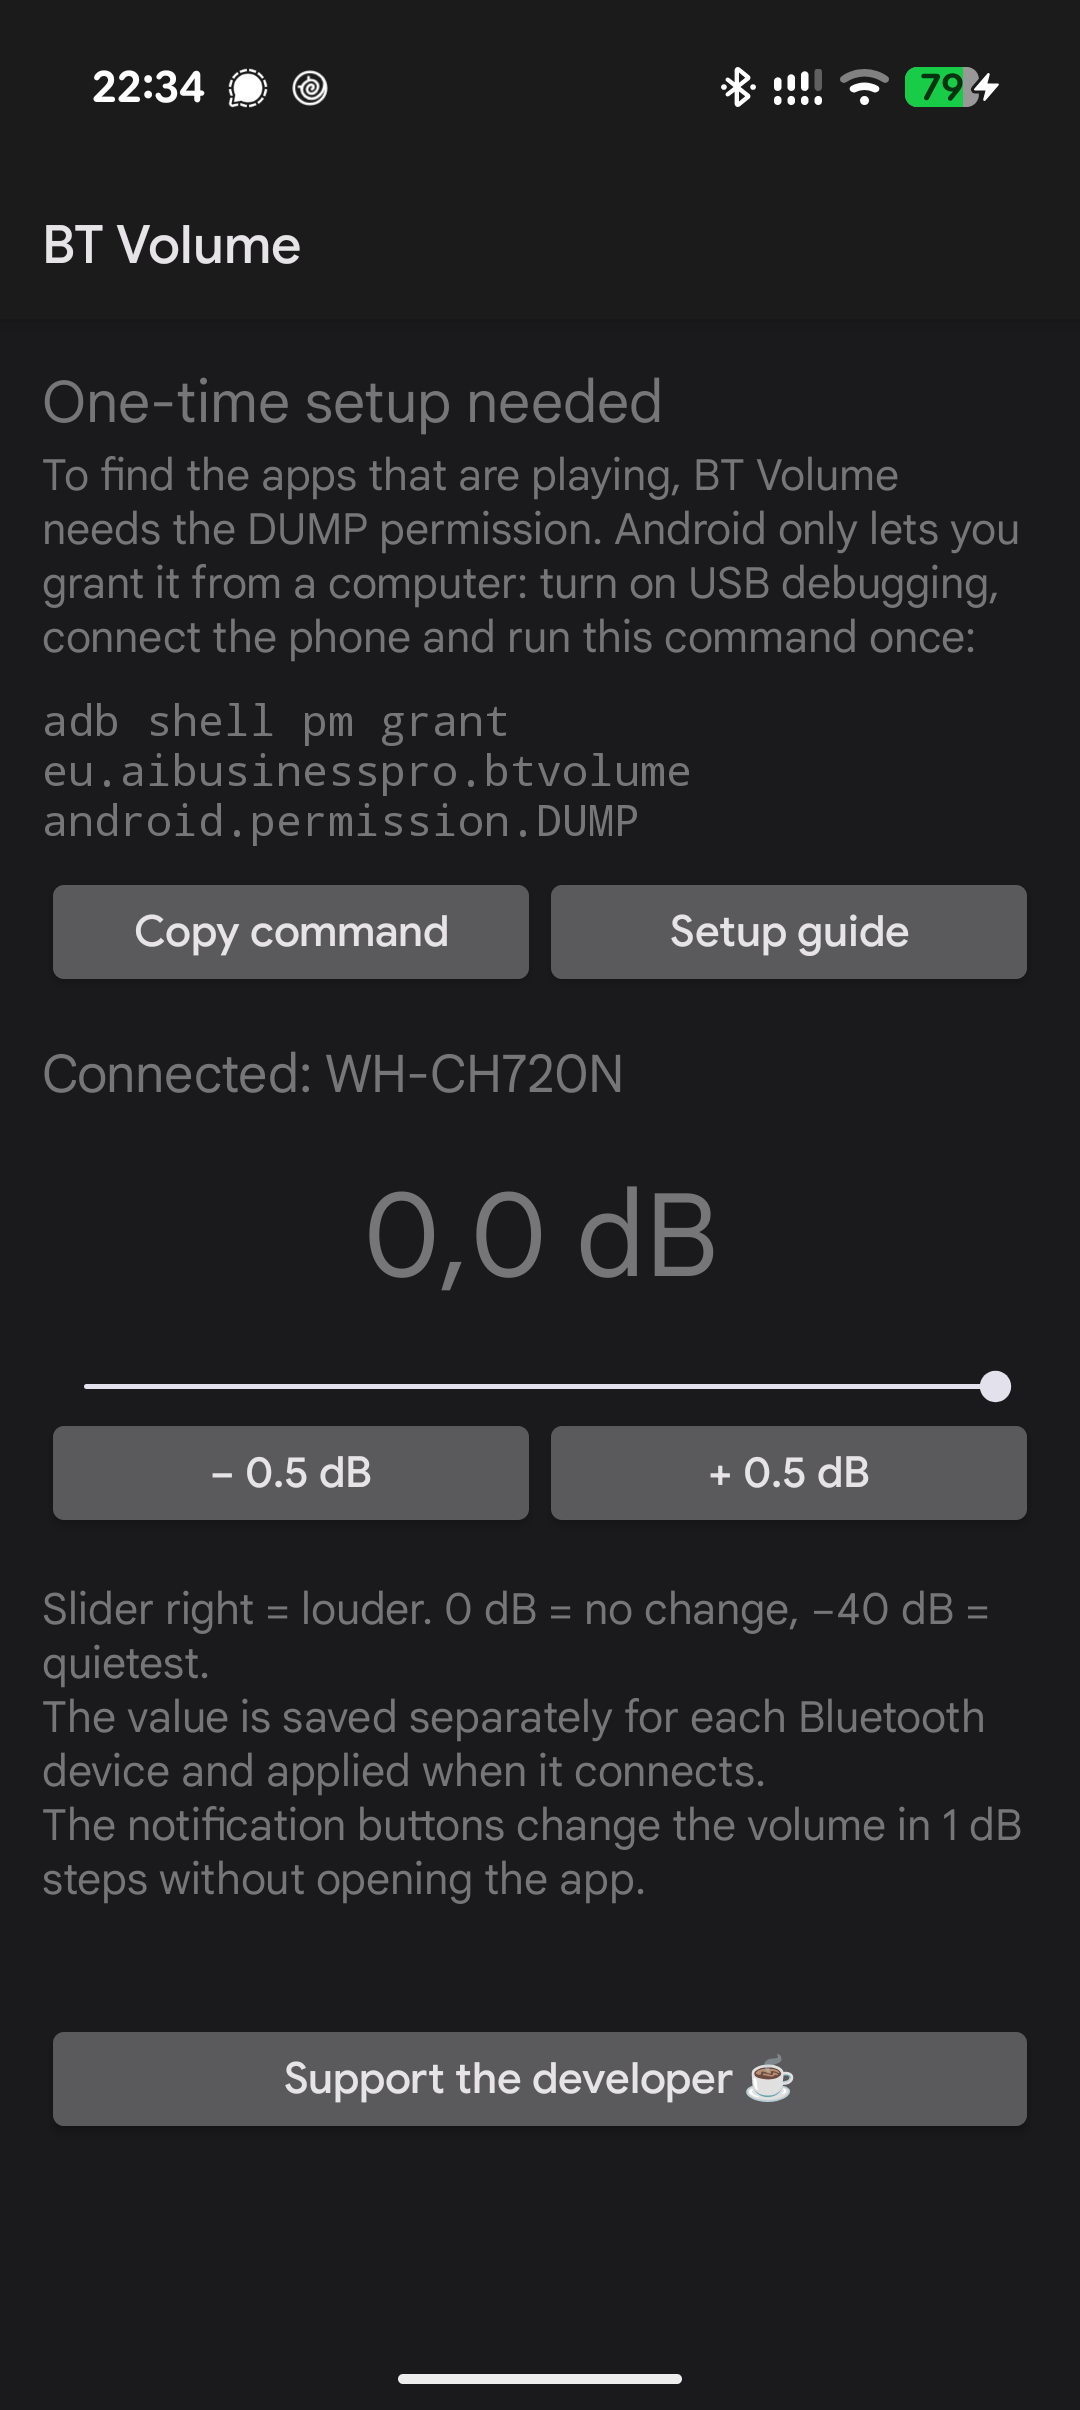
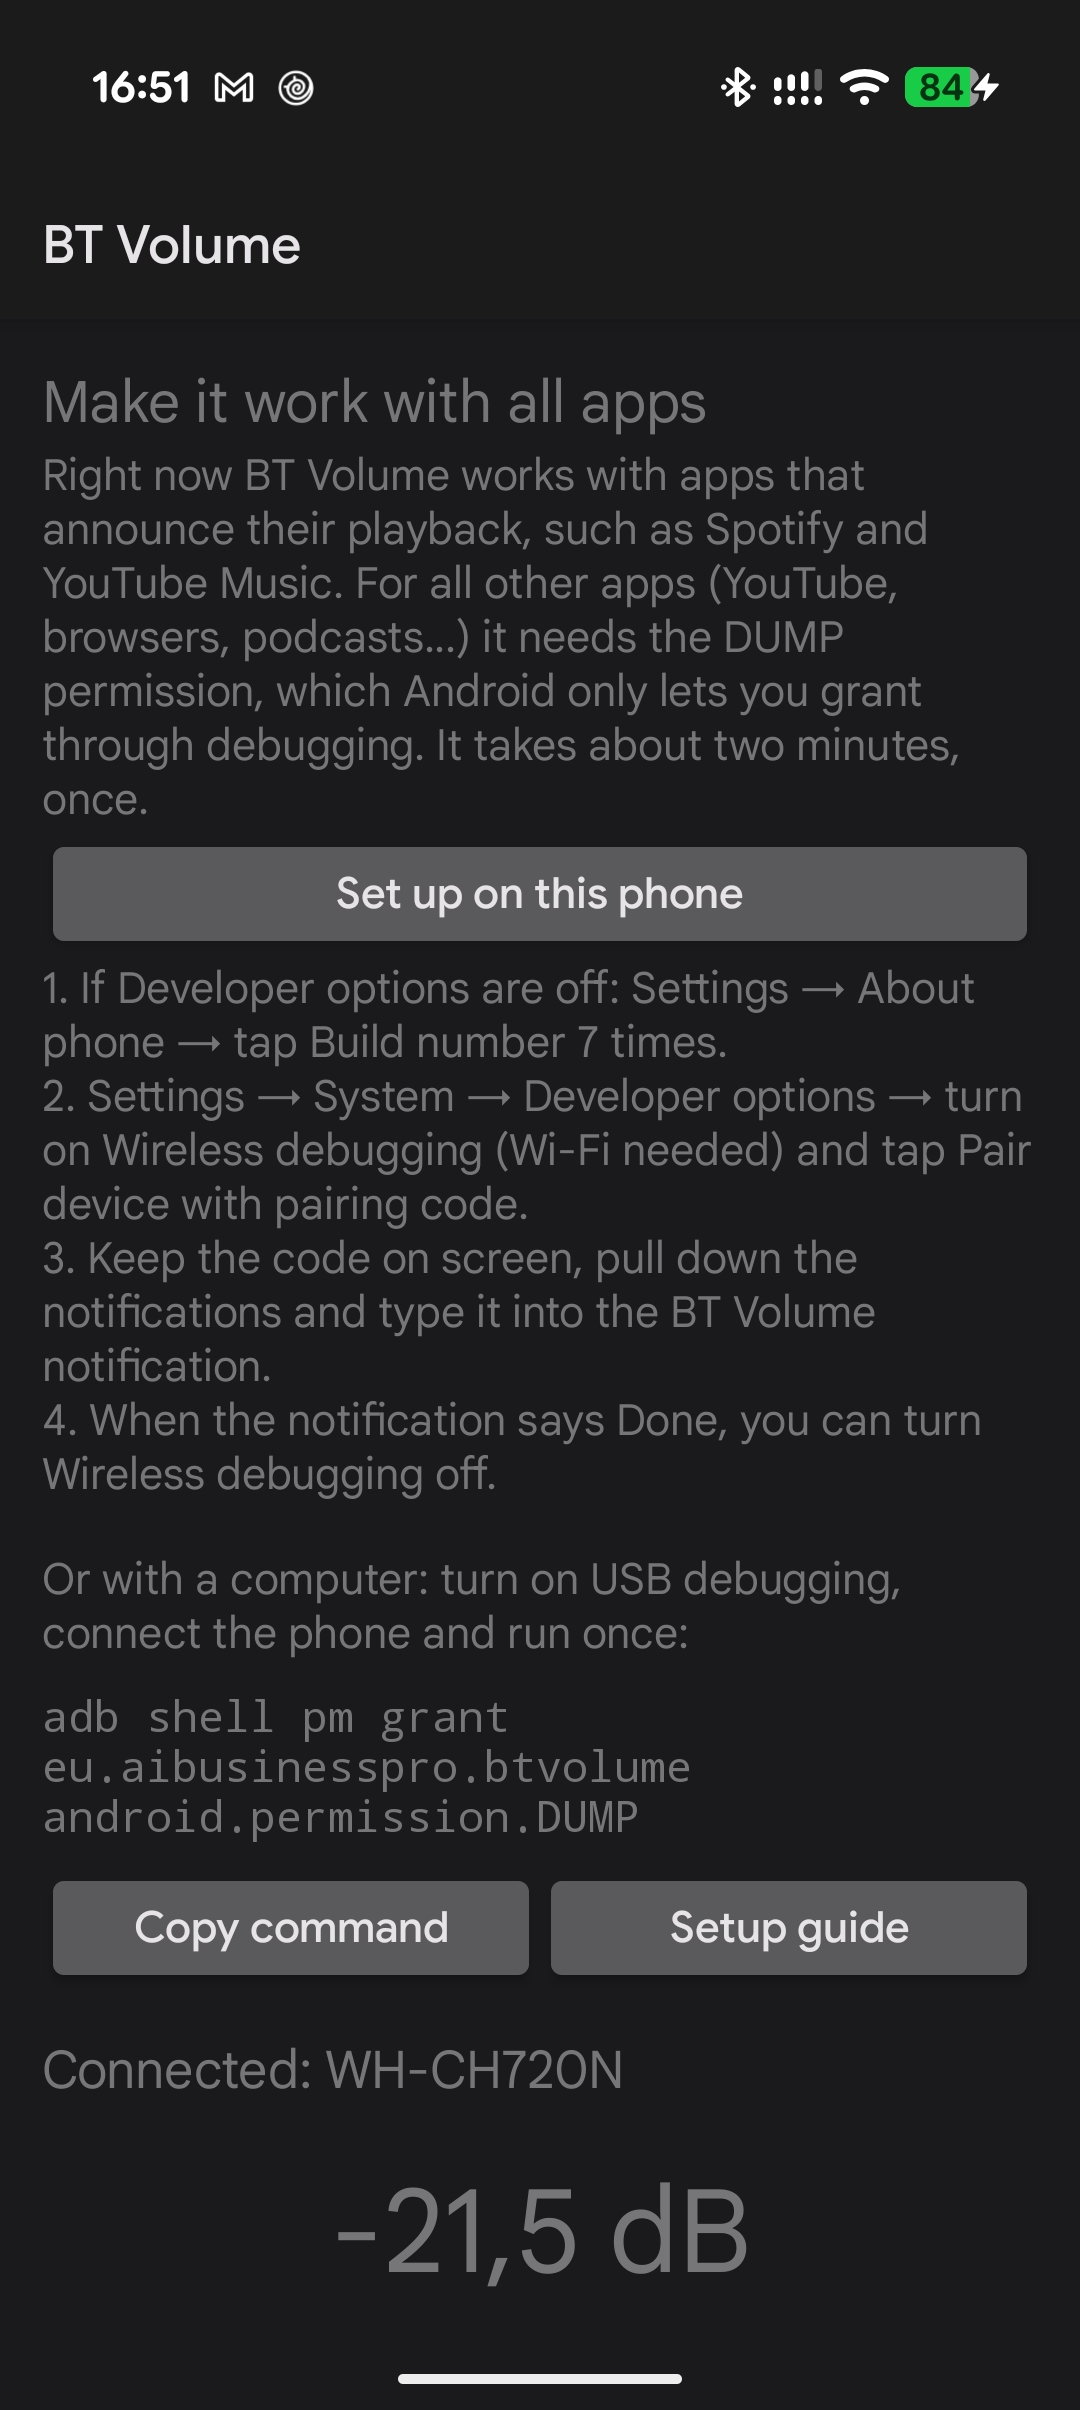
Open Settings in a separate task; screenshots

Changed region(s): [[0.0306, 0.1556, 0.9778, 0.9647], [0.0917, 0.0311, 0.3056, 0.0622], [0.8556, 0.0311, 0.9167, 0.0622]]

diff --git a/src/main/kotlin/eu/aibusinesspro/btvolume/MainActivity.kt b/src/main/kotlin/eu/aibusinesspro/btvolume/MainActivity.kt
@@ -222,7 +222,8 @@ class MainActivity : Activity() {
         // Developer options when they exist; otherwise About phone, where the user turns them on.
         for (page in listOf(Settings.ACTION_APPLICATION_DEVELOPMENT_SETTINGS, Settings.ACTION_DEVICE_INFO_SETTINGS, Settings.ACTION_SETTINGS)) {
             try {
-                startActivity(Intent(page))
+                // A separate task, so that opening BT Volume later shows the app and not Settings.
+                startActivity(Intent(page).addFlags(Intent.FLAG_ACTIVITY_NEW_TASK))
                 return
             } catch (e: ActivityNotFoundException) {
                 // Try the next page.

diff --git a/README.md b/README.md
@@ -4,6 +4,10 @@ Per-device volume attenuation for Bluetooth audio on Android. Go quieter than th
 
 On many phones the lowest volume step is still too loud for some headphones, and the steps in between are coarse. BT Volume remembers an extra attenuation for each Bluetooth device and applies it automatically whenever that device connects.
 
+## Screenshots
+
+<img src="fastlane/metadata/android/en-US/images/phoneScreenshots/main.png" width="270" alt="BT Volume main screen with a saved attenuation per Bluetooth device"> <img src="fastlane/metadata/android/en-US/images/phoneScreenshots/setup.png" width="270" alt="BT Volume one-time setup box">
+
 ## Features
 
 - Attenuation from 0 dB (no change) down to −40 dB, saved separately for each Bluetooth device
